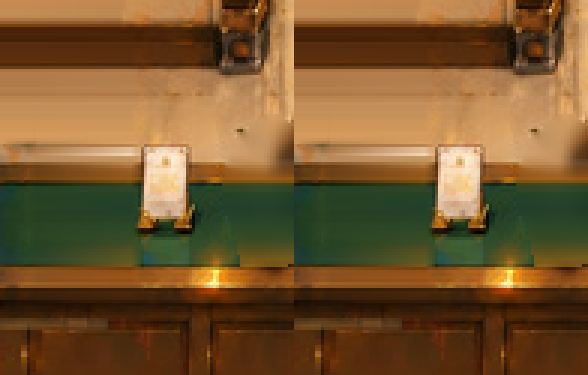
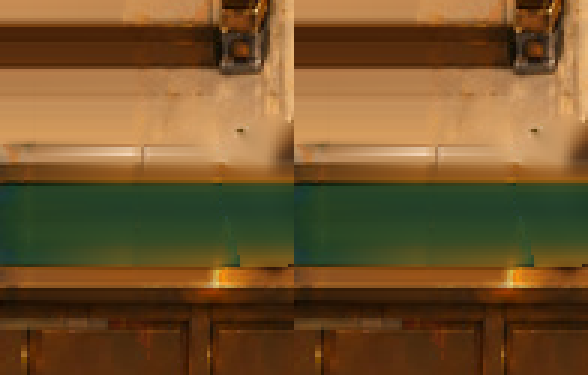
Remove remaining reception sign in OFF ON base

Changed region(s): [[0.2143, 0.3813, 0.398, 0.792], [0.7347, 0.3813, 0.8878, 0.792]]

diff --git a/build_wood_onoff.py b/build_wood_onoff.py
@@ -60,6 +60,26 @@ allowed51[:15,:]=True;allowed51[303:399,8:47]=True
 assert not np.any(np.any(off51!=s51,axis=2)&~allowed51),"51 edits outside contract"
 mask51=np.any(off51!=s51,axis=2)&allowed51
 base[mask51]=off51[mask51]
+# The tiny countertop guide placard is not building architecture and must
+# not remain in a "no signs" OFF state. The surrounding existing countertop
+# supplies source pixels for a strictly localized estimated repair.
+signmask=np.zeros((H,W),dtype=np.uint8)
+cv2.fillPoly(signmask,[np.array([(49,339),(65,339),(73,350),(74,378),(71,391),(42,391),(42,356)],np.int32)],255)
+signmask=cv2.dilate(signmask,np.ones((3,3),np.uint8),iterations=1)
+original_sign=base.copy()
+repaired=base.copy()
+# Same-row countertop donors preserve the horizontal stone/green/wood bands.
+# The 8px perimeter feather joins the original intact tabletop.
+for y in range(334,398):
+ left=np.median(original_sign[y,26:40],axis=0).astype(float)
+ right=np.median(original_sign[y,80:91],axis=0).astype(float)
+ for x in range(38,78):
+  u=np.clip((x-38)/39,0,1)
+  repaired[y,x]=np.uint8(np.clip(np.rint(left*(1-u)+right*u),0,255))
+dist=cv2.distanceTransform(signmask,cv2.DIST_L2,3)
+soft=np.clip(dist/6,0,1)
+base=np.uint8(np.clip(np.rint(base*(1-soft[:,:,None])+repaired*soft[:,:,None]),0,255))
+png(signmask,"QA_counter_nameplate_removal_mask.png")
 png(base,"entrance_clean_base_no_mats_no_characters.png")
 canvas=Image.fromarray(base,"RGB").convert("RGBA")
 mats={"left":img(D43/"exhibition_left_empty_mat.png","RGBA"),
@@ -136,8 +156,9 @@ report={"status":"technical_candidate_pending_art_review",
  "non_wood_changed_pixels":int((diff&~a).sum()),
  "fifty_changed_pixels":int(fifty.sum()),"fifty_allowed_rects":rect50,
  "fifty_one_changed_pixels":int(mask51.sum()),
+ "counter_nameplate_removed":True,"counter_nameplate_repair_pixels":int(np.count_nonzero(signmask)),
  "picture_light_repairs":picture30,"sign_wall_light_repairs":fixture29,
- "estimated_repairs":["29 sign/sconce backgrounds","30 rear picture lights","50 sconces","51 ceiling lamps and reception desk lamp","43 wall behind old gold frames"],
+ "estimated_repairs":["29 sign/sconce backgrounds","30 rear picture lights","50 sconces","51 ceiling lamps and reception desk lamp","43 wall behind old gold frames","countertop guide placard"],
  "approval_level1":False,"user_art_approval":False,"game_integrated":False,
  "main_game_modified":False}
 (OUT/"QA_manifest.json").write_text(json.dumps(report,ensure_ascii=False,indent=2),encoding="utf-8")

diff --git a/entrance-wood-onoff-v01-20261026/README.md b/entrance-wood-onoff-v01-20261026/README.md
@@ -19,7 +19,7 @@
 - 照明の消去に使った29/30/50/51の修復背景には推定画素が含まれる。左・右の壁面、受付ランプ跡、天井小灯消去跡の目視確認が必要。
 - 台紙や床の輝度の一部は既存原画の照明が焼き込まれた素材。今回のON/OFFでは同一状態で、額縁以外の差はないが「完全な物理消灯」ではない。
 - 右手前額縁は49番v07の壁面四隅推定に基づく。美術最終承認は未了。
-- 受付カウンターの常設小さな卓上案内札、建築の金色部材は建築/常設物として維持している。取り外したい場合は次工程で別途分離する。
+- 受付カウンターの小さな卓上案内札も除去。周辺の元画像を横方向に補間した推定修復のため、受付台の美術監修が必要。建築の金色部材は維持する。
 - OFFとONのいずれもLv1とは確定しない。
 
 ## ファイル
